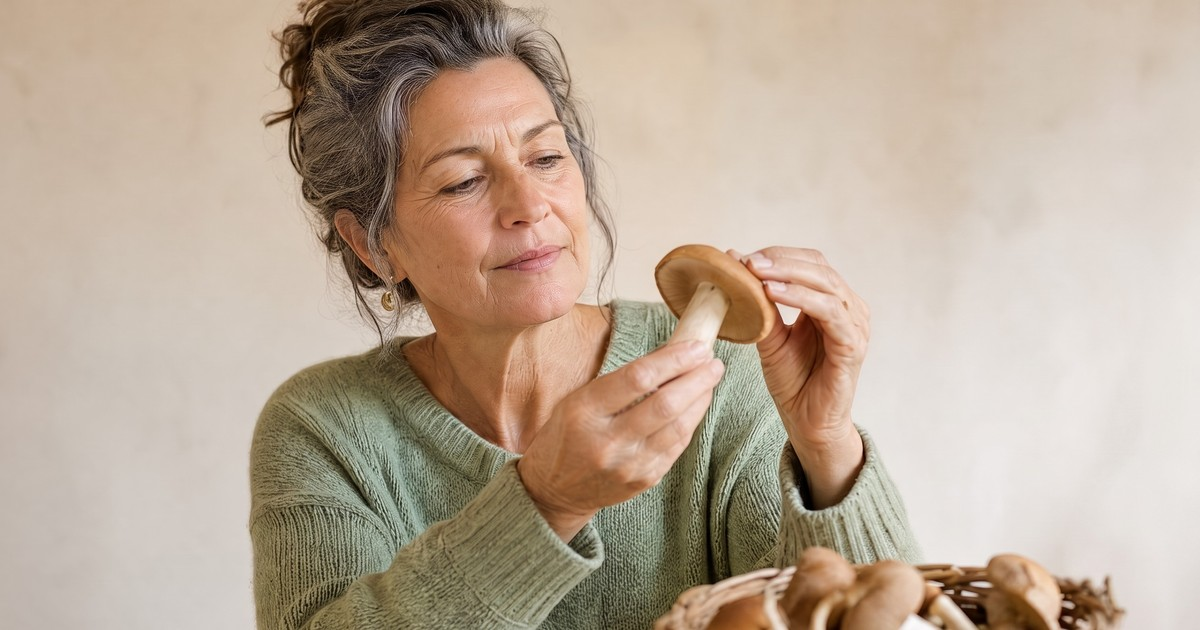
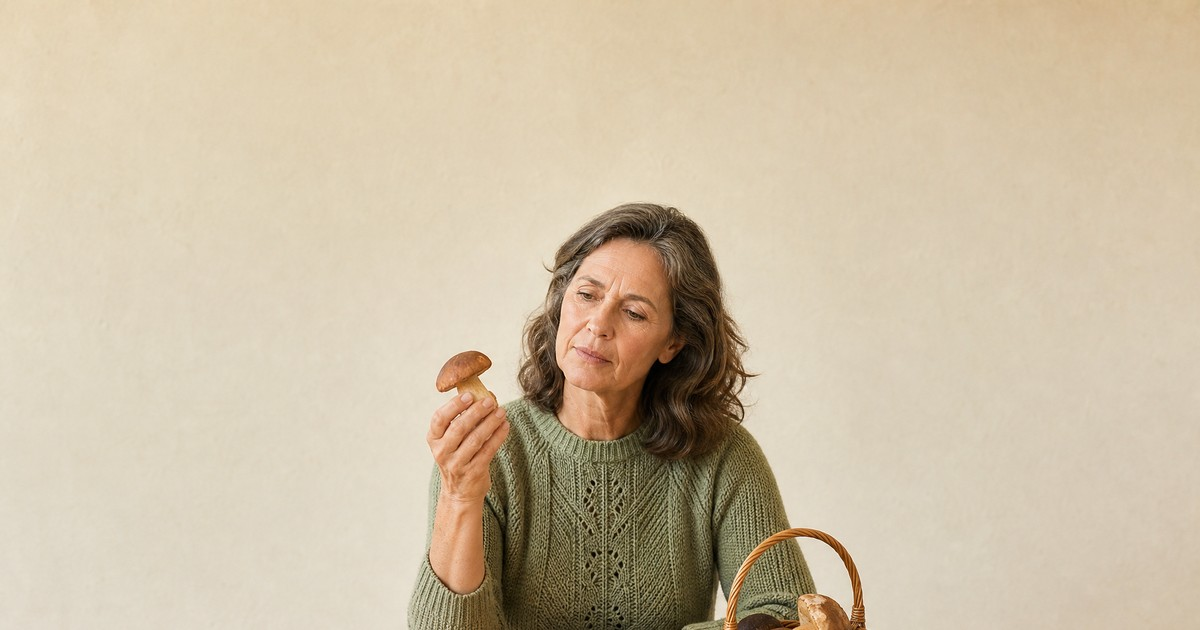
blog: reframe hero/OG photos on 3 recent lifestyle-editorial posts, more negative space
Dany compared posts #36/#37/#38 (rentree-ado, champignons, poux) against older
lifestyle-editorial shots (#29, #31, #35) and found the recent ones too tight:
heads/hands close to or touching the frame edge. The "~50-60% of frame" guidance
let the model drift tighter over successive generations. Regenerated all three
with the camera pulled back (~40-45% of frame, ~20% clear margin on every side),
same subjects/wardrobe for continuity. Updated the photo-prompt-template.md
charter with the corrected framing target and a dated note explaining why.
Also fixed a pre-existing wrong-gender alt text on the champignons card
("Homme" -> "Femme", the subject is a 58yo woman).

diff --git a/blog/35-champignons-bretagne/champignons-bretagne-cueillette-identification-queven.html b/blog/35-champignons-bretagne/champignons-bretagne-cueillette-identification-queven.html
@@ -42,7 +42,7 @@
     <meta property="og:site_name" content="Pharmacie Charnal">
     <meta property="og:locale" content="fr_FR">
     <meta property="article:published_time" content="2026-09-07T00:00:00+02:00">
-    <meta property="article:modified_time" content="2026-09-07T00:00:00+02:00">
+    <meta property="article:modified_time" content="2026-09-15T00:00:00+02:00">
     <meta property="article:author" content="Équipe Pharmacie Charnal">
     <meta property="article:section" content="Conseils santé">
     <meta property="article:tag" content="champignons">
@@ -142,7 +142,7 @@
       "description": "Amanite phalloïde, cèpes, girolles: reconnaître les champignons du Morbihan et savoir où faire vérifier sa récolte à l'automne. Conseils de la Pharmacie Charnal à Quéven.",
       "url": "https://www.pharmaciecharnal.com/blog/35-champignons-bretagne/champignons-bretagne-cueillette-identification-queven.html",
       "datePublished": "2026-09-07T00:00:00+02:00",
-      "dateModified": "2026-09-07T00:00:00+02:00",
+      "dateModified": "2026-09-15T00:00:00+02:00",
       "inLanguage": "fr-FR",
       "author": { "@type": "Organization", "name": "Équipe Pharmacie Charnal", "url": "https://www.pharmaciecharnal.com" },
       "publisher": {
@@ -234,7 +234,7 @@
       "description": "Amanite phalloïde, cèpes, girolles: reconnaître les champignons du Morbihan et savoir où faire vérifier sa récolte à l'automne. Pharmacie Charnal, Quéven.",
       "url": "https://www.pharmaciecharnal.com/blog/35-champignons-bretagne/champignons-bretagne-cueillette-identification-queven.html",
       "datePublished": "2026-09-07",
-      "dateModified": "2026-09-07",
+      "dateModified": "2026-09-15",
       "inLanguage": "fr",
       "author": { "@type": "Organization", "name": "Équipe Pharmacie Charnal", "url": "https://www.pharmaciecharnal.com" },
       "publisher": { "@id": "https://www.pharmaciecharnal.com/#pharmacy" },
@@ -488,7 +488,7 @@
     <article class="article-content">
         <img src="../../images/Blog%20photos/blog-37-champignons-bretagne.jpg"
              alt="Panier d'osier rempli de cèpes et de girolles fraîchement cueillis, conseils Pharmacie Charnal Quéven, Bretagne"
-             width="1536" height="1024"
+             width="1600" height="1066"
              style="width:100%;max-height:420px;object-fit:cover;border-radius:var(--radius-md);margin-bottom:var(--space-xl);"
              loading="eager" fetchpriority="high">
 

diff --git a/blog.html b/blog.html
@@ -331,7 +331,7 @@
                 <article class="blog-card fade-up">
                     <a href="blog/34-poux-rentree/poux-rentree-reperer-traiter-queven.html">
                         <div class="blog-image-placeholder" style="background: url('images/Blog%20photos/blog-38-poux-rentree.jpg') center/cover; padding: 0; font-size: 0;">
-                            <img src="images/Blog%20photos/blog-38-poux-rentree.jpg" alt="Mère peignant délicatement les cheveux de son enfant, prévention poux de rentrée, Pharmacie Charnal Quéven" width="1264" height="848" style="width: 100%; height: 100%; object-fit: cover; display: block;">
+                            <img src="images/Blog%20photos/blog-38-poux-rentree.jpg" alt="Mère peignant délicatement les cheveux de son enfant, prévention poux de rentrée, Pharmacie Charnal Quéven" width="1600" height="1066" style="width: 100%; height: 100%; object-fit: cover; display: block;">
                         </div>
                     </a>
                     <div class="blog-content">
@@ -353,7 +353,7 @@
                 <article class="blog-card fade-up">
                     <a href="blog/35-champignons-bretagne/champignons-bretagne-cueillette-identification-queven.html">
                         <div class="blog-image-placeholder" style="background: url('images/Blog%20photos/blog-37-champignons-bretagne.jpg') center/cover; padding: 0; font-size: 0;">
-                            <img src="images/Blog%20photos/blog-37-champignons-bretagne.jpg" alt="Homme examinant attentivement un champignon au-dessus d'un panier d'osier, conseils pharmacie, Pharmacie Charnal Quéven" width="1264" height="848" style="width: 100%; height: 100%; object-fit: cover; display: block;">
+                            <img src="images/Blog%20photos/blog-37-champignons-bretagne.jpg" alt="Femme examinant attentivement un champignon au-dessus d'un panier d'osier, conseils pharmacie, Pharmacie Charnal Quéven" width="1600" height="1066" style="width: 100%; height: 100%; object-fit: cover; display: block;">
                         </div>
                     </a>
                     <div class="blog-content">

diff --git a/index.html b/index.html
@@ -2773,7 +2773,7 @@
                 <!-- Secondary articles (right), refreshed by JS when fetch succeeds -->
                 <div class="blog-secondary-list" id="blog-secondary-list">
                     <a class="blog-mini-card" id="mini-card-1" href="blog/35-champignons-bretagne/champignons-bretagne-cueillette-identification-queven.html">
-                        <img class="blog-mini-img" id="mini-img-1" src="images/Blog%20photos/blog-37-champignons-bretagne.jpg" alt="Homme examinant attentivement un champignon au-dessus d'un panier d'osier, conseils pharmacie, Pharmacie Charnal Quéven">
+                        <img class="blog-mini-img" id="mini-img-1" src="images/Blog%20photos/blog-37-champignons-bretagne.jpg" alt="Femme examinant attentivement un champignon au-dessus d'un panier d'osier, conseils pharmacie, Pharmacie Charnal Quéven">
                         <div class="blog-mini-text">
                             <span class="blog-mini-date" id="mini-date-1">7 Septembre 2026</span>
                             <h3 class="blog-mini-title" id="mini-title-1">Champignons en Bretagne: bien les reconnaître et savoir où faire vérifier sa récolte</h3>

diff --git a/blog/34-poux-rentree/poux-rentree-reperer-traiter-queven.html b/blog/34-poux-rentree/poux-rentree-reperer-traiter-queven.html
@@ -488,7 +488,7 @@
     <article class="article-content">
         <img src="../../images/Blog%20photos/blog-38-poux-rentree.jpg"
              alt="Mère souriante tenant un peigne à poux métallique fin, conseils Pharmacie Charnal Quéven, Bretagne"
-             width="1536" height="1024"
+             width="1600" height="1066"
              style="width:100%;max-height:420px;object-fit:cover;border-radius:var(--radius-md);margin-bottom:var(--space-xl);"
              loading="eager" fetchpriority="high">
 

diff --git a/blog/35-champignons-bretagne/champignons-bretagne-cueillette-identification-queven.md b/blog/35-champignons-bretagne/champignons-bretagne-cueillette-identification-queven.md
@@ -2,7 +2,7 @@
 title: "Champignons en Bretagne: bien les reconnaître et savoir où faire vérifier sa récolte"
 description: "Amanite phalloïde, cèpes, girolles: reconnaître les champignons du Morbihan et savoir où faire vérifier sa récolte à l'automne. Pharmacie à Quéven"
 date: 2026-09-07
-dateModified: 2026-09-14
+dateModified: 2026-09-15
 author: Équipe Pharmacie Charnal
 categories:
   - Conseils santé
